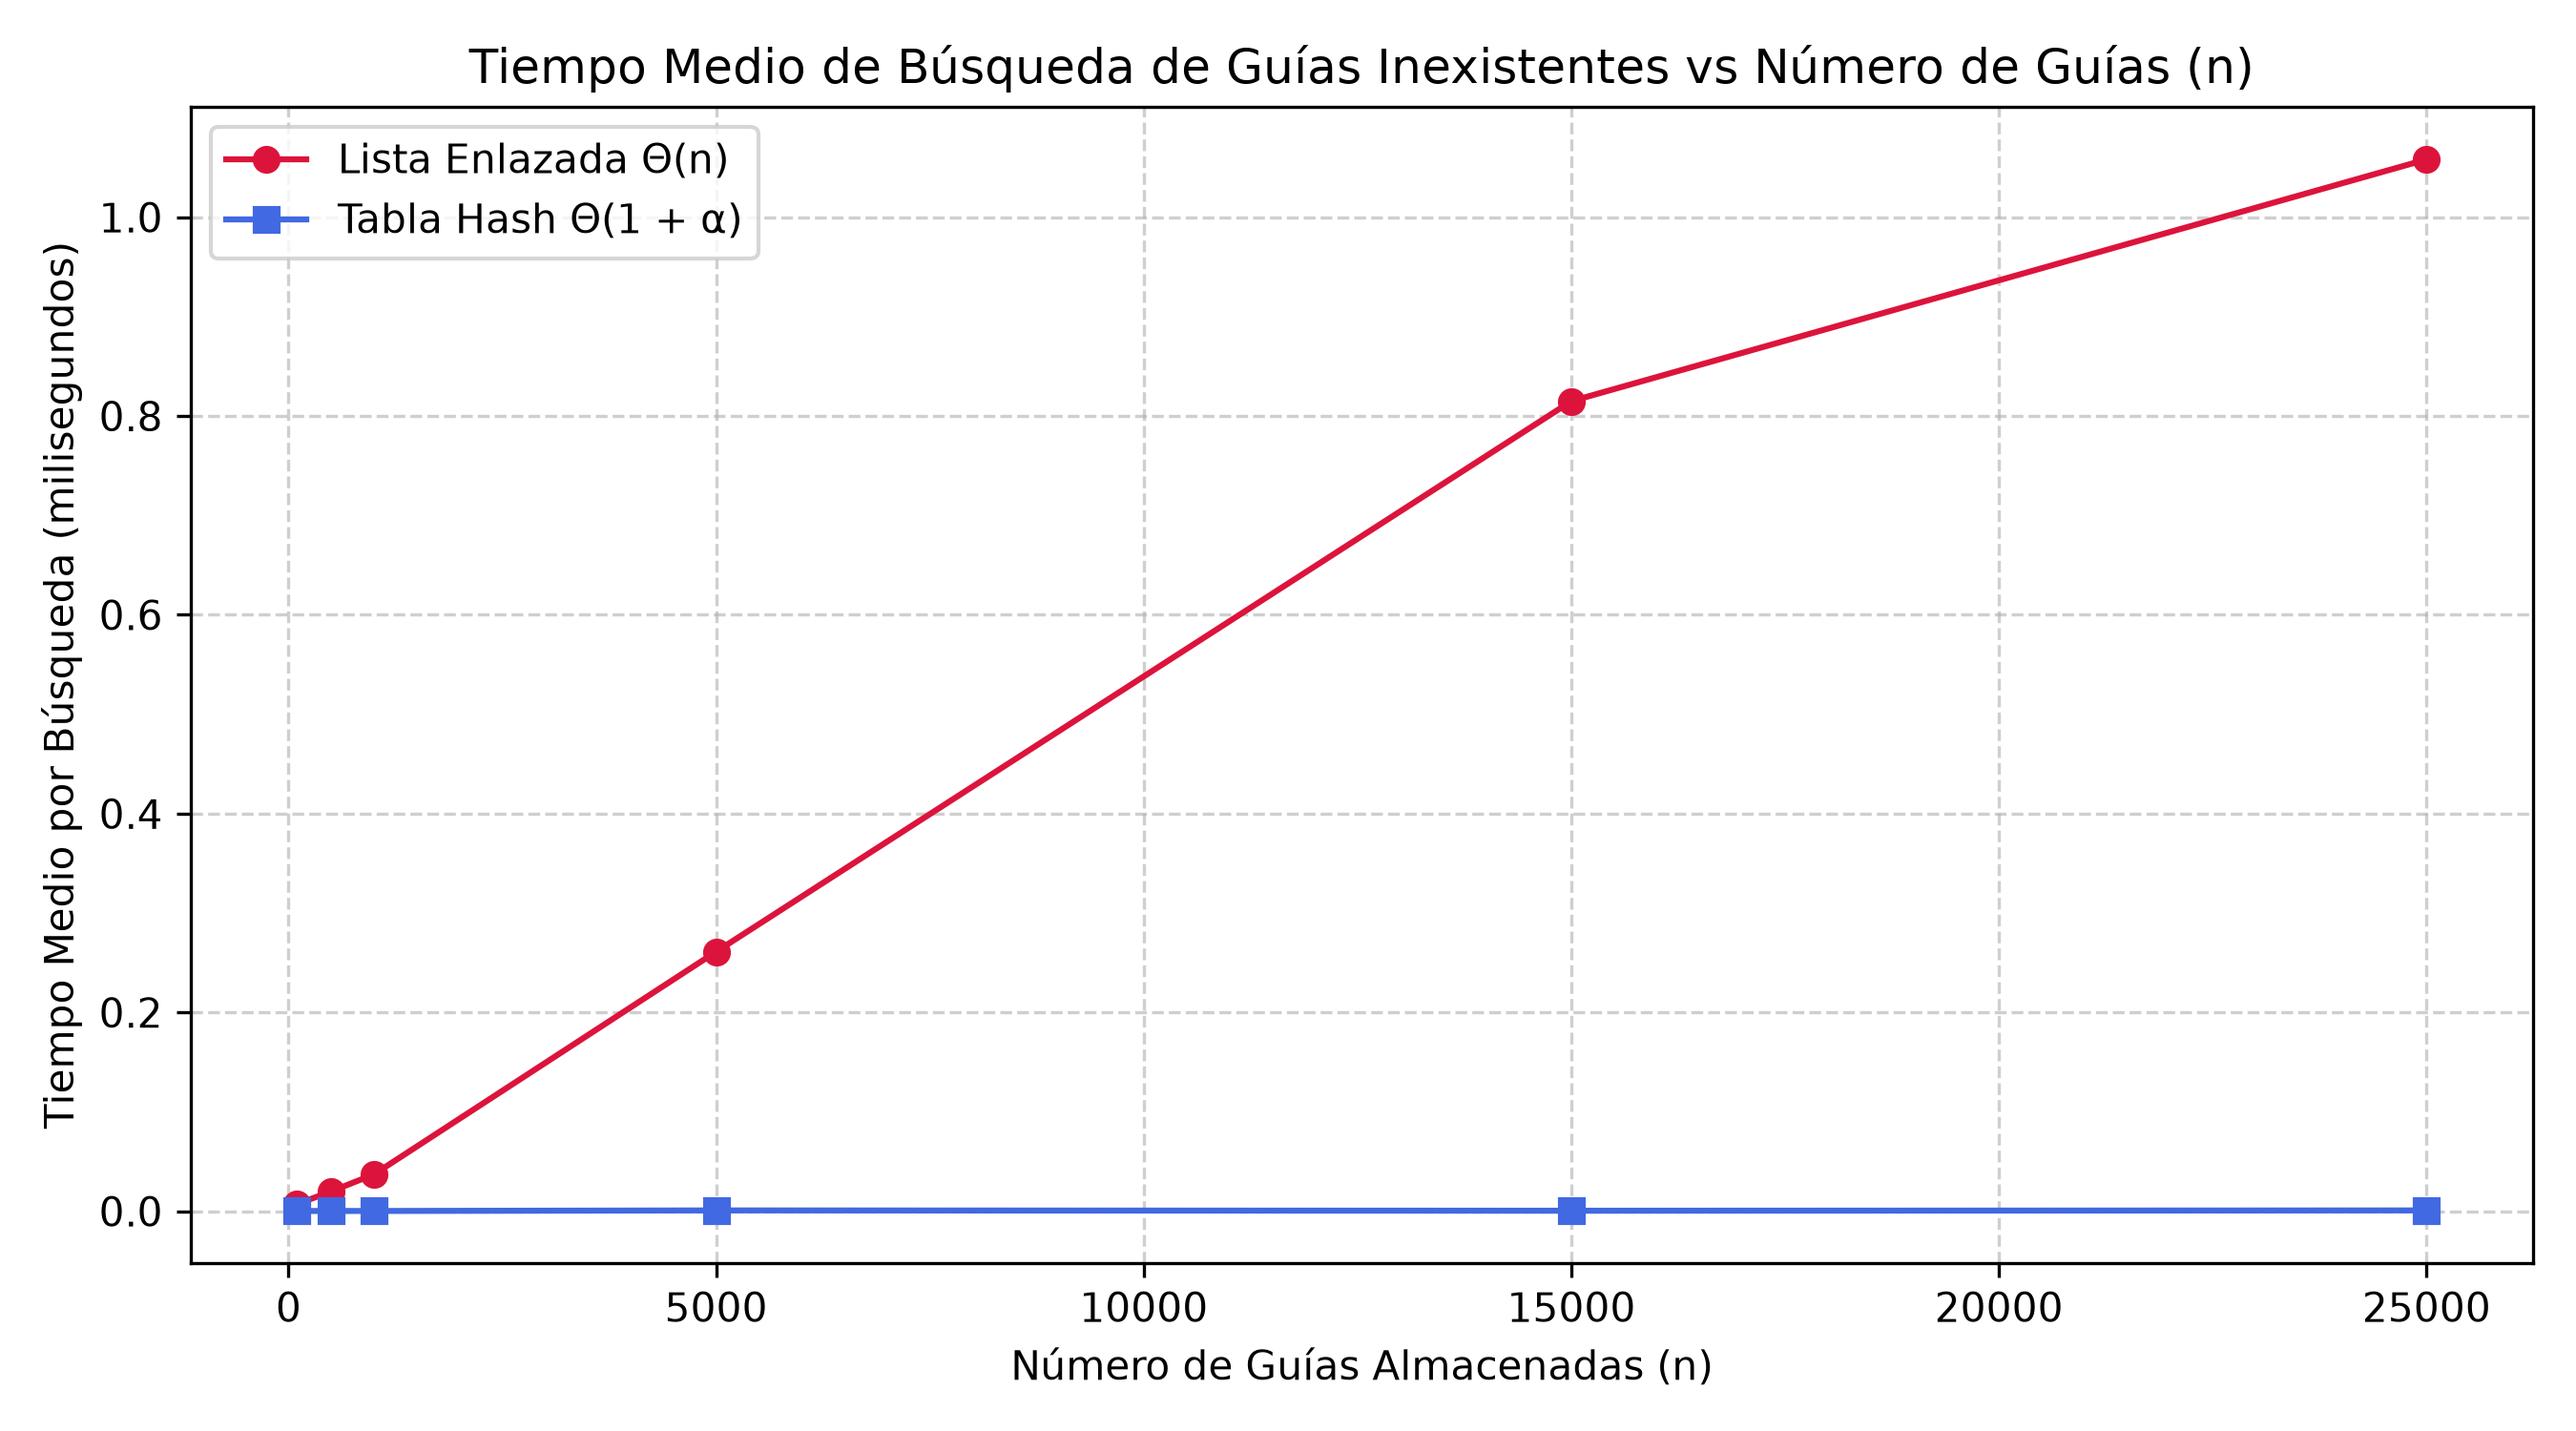
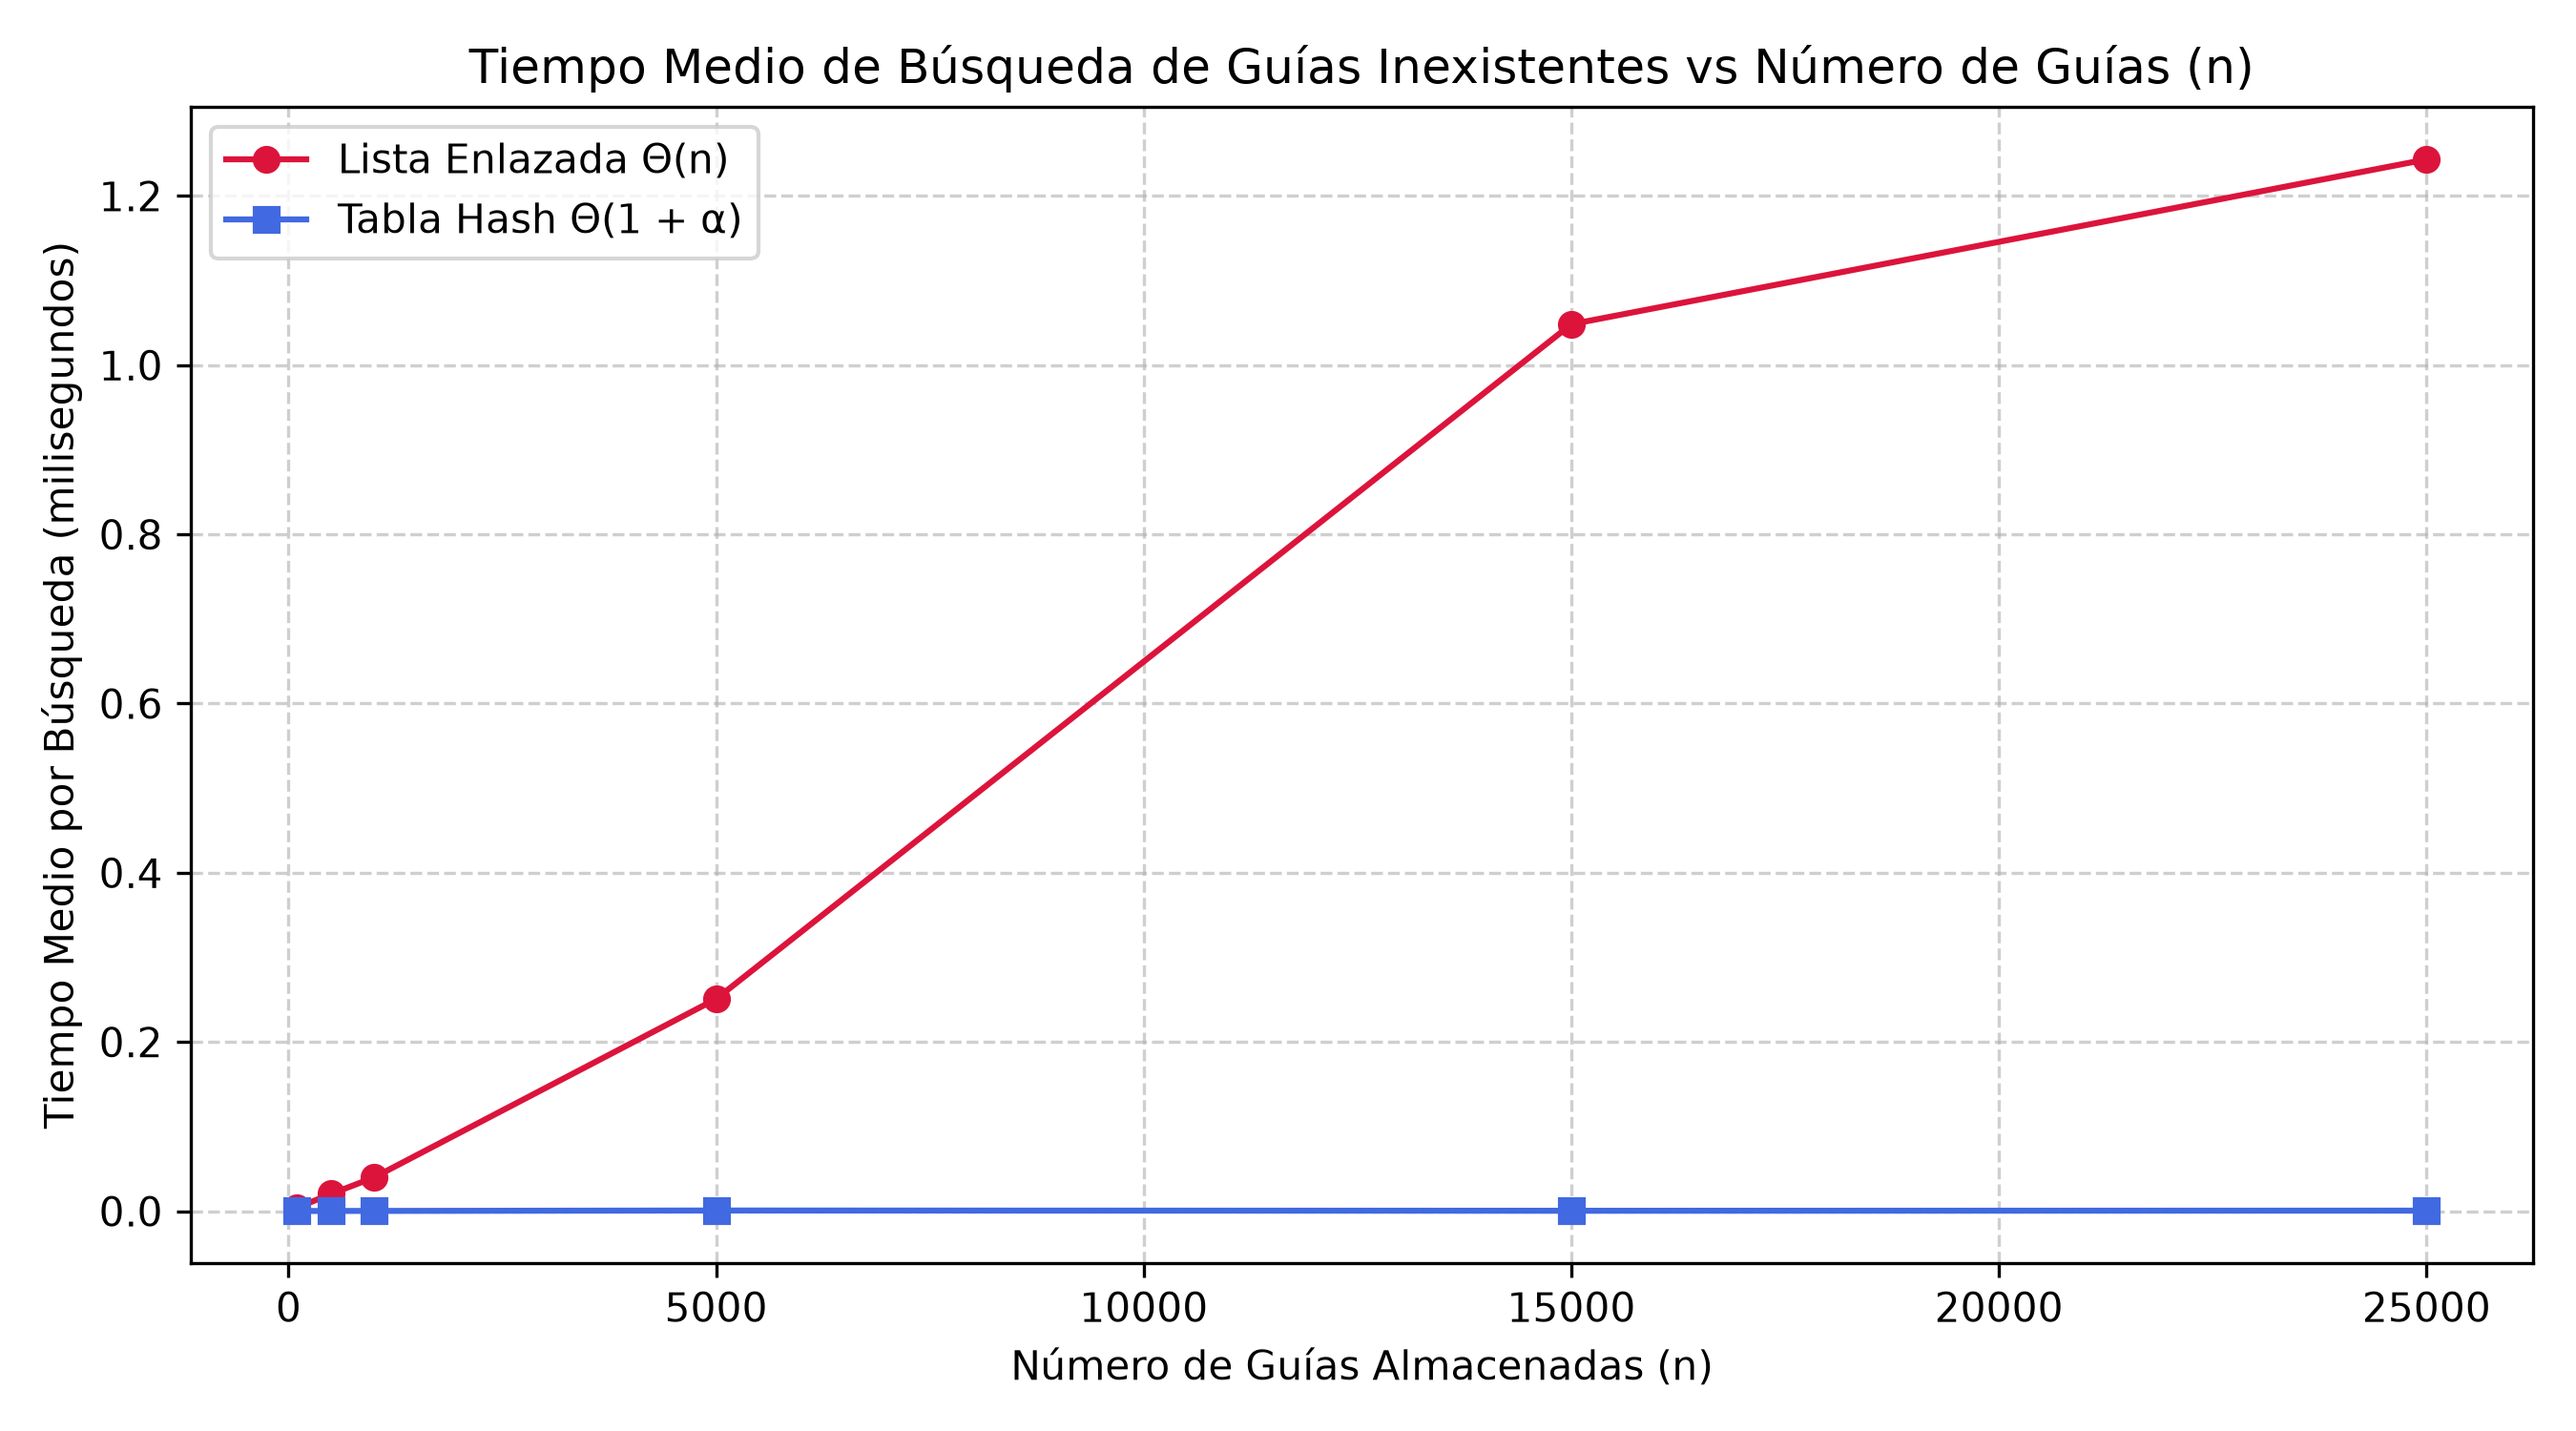
Entrega formal Laboratorio 3: reporte README con analisis teorico completo

diff --git a/lab3-estructuras-datos/README.md b/lab3-estructuras-datos/README.md
@@ -10,6 +10,6 @@
 
 ## 0. Instrucciones para Reproducir el Experimento
 
-1. **Instalación de dependencias y activación:**
+1. **Instalación de dependencias:**
    ```bash
    pip install matplotlib
